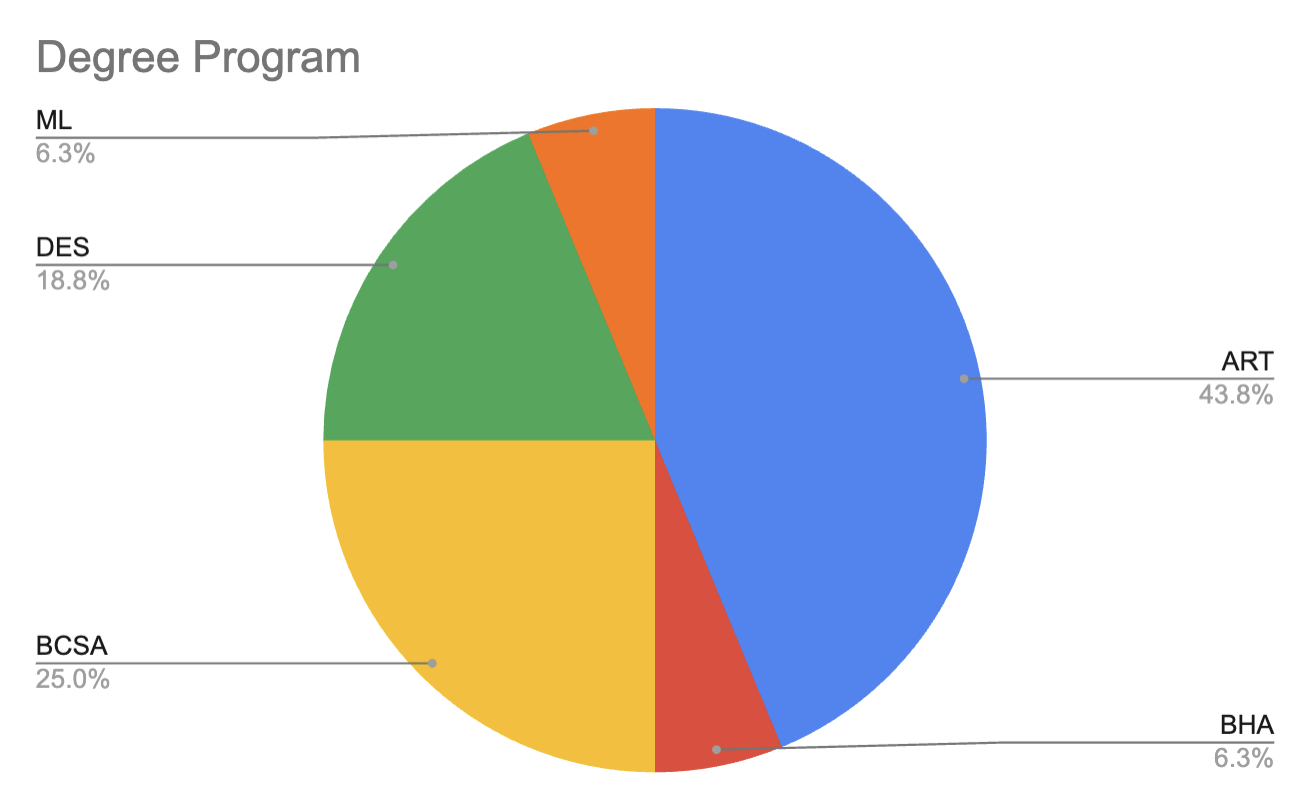
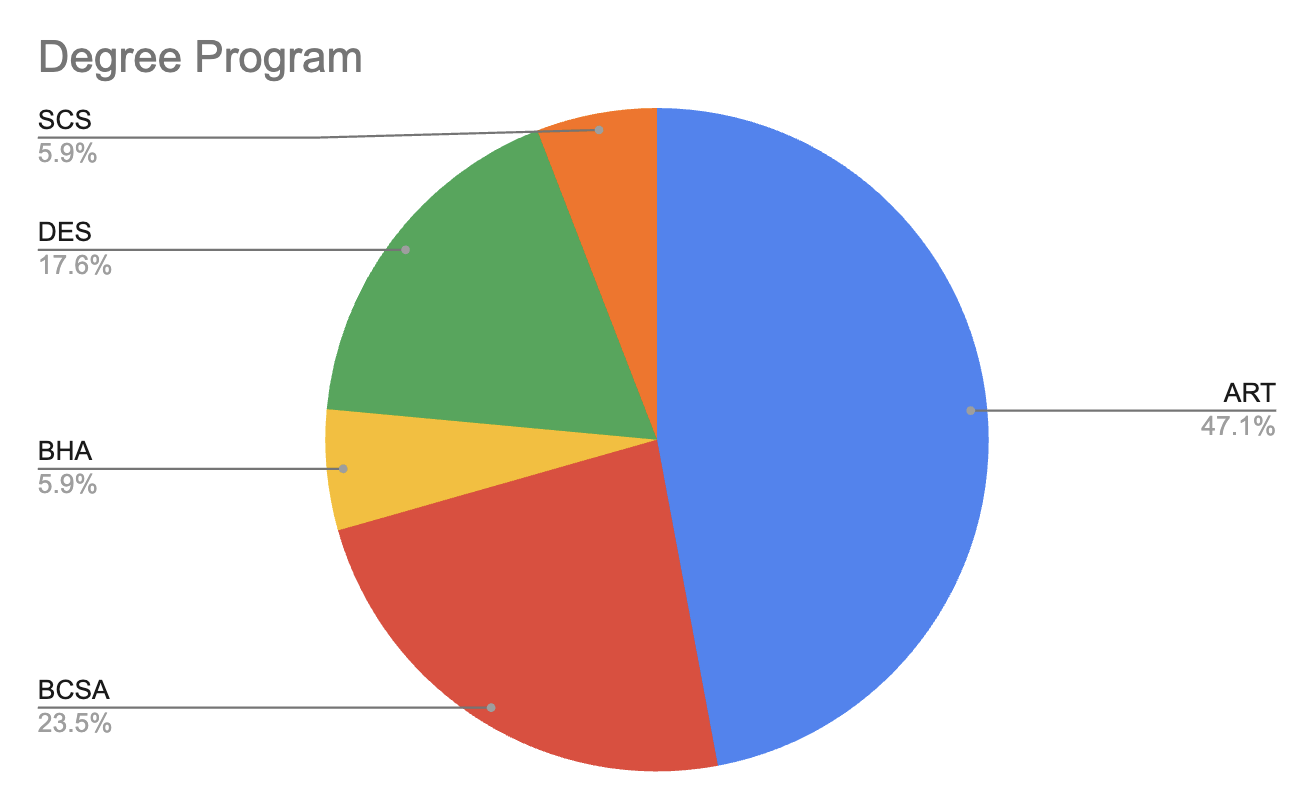
adding alot

diff --git a/2024/daily_notes/20240826.md b/2024/daily_notes/20240826.md
@@ -6,26 +6,56 @@ Welcome to the Fall 2024 edition of *Creative Coding* at CMU!
 
 ## Agenda
 
-* [Who's Here?](#introductions)
-* [Syllabus Review](https://github.com/golanlevin/60-212/blob/main/2024/syllabus/60-212_syllabus_fall2024.md)
-* [Introduction to Poetic Computing]()
-* [Presentation of Assignment #0](../assignments/assignment_0.md)
-* [Welcome Form & Exit Ticket](https://forms.gle/qa1upyvUXWk1dWra6)
+* Moment of Mindfulness: [*Tokyo Strut*](https://www.youtube.com/watch?v=4M-j0Wnjb7Q&t=6s) by Masahiko Sato
+* [Introductions](#introductions) (see below)
+* [About this Class](#about-this-class) (see below)
+* [Introduction to Poetic Computing](https://github.com/golanlevin/lectures/blob/master/lecture_introduction/hello_60212.md)
+* [Let's Get Working](#lets-get-working) (see below)
 
 
 ---
 ## Introductions
 
-Who am I? Here are a few things I've done.
+* About the Professor, Golan Levin: Here are a few things I've done: [Generative art](https://www.artblocks.io/curated/collections/cytographia-by-golan-levin) • [Artificial Intelligence](https://github.com/golanlevin/AmbigrammaticFigures) • [Lasers](https://flong.com/archive/projects/gpp-ii/index.html) • [Robots](https://flong.com/archive/projects/snout/index.html) • [Weird performance](https://flong.com/archive/projects/messa/index.html) • [Creative Coding pedagogy](https://mitpress.mit.edu/9780262542043/code-as-creative-medium/)
+* About our Teaching Assistant, [Em Lugo](https://art.cmu.edu/people/emmanuel-lugo/)
+* Who's here? A brief overview of the students in our class: [by degree program](images/0826/students_by_degree_program.png) • [by year](images/0826/students_by_year.png)
+* Please introduce yourselves! 
 
-* [Generative art!](https://www.artblocks.io/curated/collections/cytographia-by-golan-levin)
-* [Artificial Intelligence!](https://github.com/golanlevin/AmbigrammaticFigures)
-* [Lasers!](https://flong.com/archive/projects/gpp-ii/index.html)
-* [Robots!](https://flong.com/archive/projects/snout/index.html)
-* [Weird performance!](https://flong.com/archive/projects/messa/index.html)
 
-Who's here? Here's a brief overview of the student population in our class.
+---
+## About this Class
 
-![students_by_degree_program.png](images/0826/students_by_degree_program.png)
+* [**Syllabus Review**](https://github.com/golanlevin/60-212/blob/main/2024/syllabus/60-212_syllabus_fall2024.md)
+* [No Tourists](images/0826/no-tourists.jpg). I'm serious about this. [Art will save us.](images/0826/maeda_nyt.jpg)
+* [You're growing up](images/0826/baby-bird-worm.gif). You'll have to figure many things out yourself. This will be the hardest class you take at CMU.
+* [Make (lots of) shoddy work](images/0826/fast-cheap-good.jpg). The Quality/Quantity Experiment. Racehorses. Thankfully, units do not build on each other. If you miss a unit, just move on.
 
-![students_by_year.png](images/0826/students_by_year.png) 
+### Key Due Dates: 
+
+* [Assignment Set 0](../assignments/assignment_0.md): Due Wednesday 8/28
+* Assignment Set 1: Due TBA
+* Assignment Set 2: Due TBA
+* Assignment Set 3: Due TBA
+* Assignment Set 4: Due TBA
+* Assignment Set 5: Due TBA
+* Assignment Set 6: Due TBA
+* Assignment Set 7: Due TBA
+* Assignment Set 8: Due TBA
+* Assignment Set 9: Due TBA
+* Assignment Set 10: Due TBA
+
+---
+## Let's Get Working
+
+* Introduce p5: Reference
+* Look at our OpenProcessing site.
+* [Make a new sketch at OpenProcessing](https://openprocessing.org/sketch/create)
+* [Walkthrough of Assignment #0](../assignments/assignment_0.md), due this Wednesday
+* [Welcome Form & Exit Ticket](https://forms.gle/qa1upyvUXWk1dWra6)
+
+
+--- 
+## Time Permitting
+
+* [Additional themes and viewings](https://courses.ideate.cmu.edu/60-212/s2022/daily-notes/01-19-hello/themes-and-viewings/)
+* [Generative art](https://golancourses.net/60120/daily-notes/unit-2-creative-code/generative-artworks-tasting/)

diff --git a/2024/assignments/assignment_0.md b/2024/assignments/assignment_0.md
@@ -1,19 +1,24 @@
+# UNDER CONSTRUCTION!
+
 # Assignment Set #0
 
 ---
 
-*The following deliverables are due by the beginning of class, Wednesday 8/28:* 
+![assignment_0_banner.png](images/assignment_0_banner.png)
 
-1. **Create** an ID on [OpenProcessing.org](https://openprocessing.org) (if you don't already have one). **Join** our OpenProcessing classroom, using the invitation sent to you by email.
-2. **Create** an ID on [Discord.com](https://discord.com/) (if you don't already have one). **Join** the class Discord, using the invitation sent to you by email.
-3. **Review** the [Syllabus](https://github.com/golanlevin/60-212/blob/main/2024/syllabus/60-212_syllabus_fall2024.md), and **complete** the [Welcome Form & Exit Ticket](https://forms.gle/qa1upyvUXWk1dWra6).
-4. **Write** a [*Looking Outwards*]() post, as follows: 
-	* **Create** a post in the `#LookingOutwards01` channel in the course Discord. 
-	* **Describe** a project you have admired (by someone else) which you feel falls under the broad umbrella of "Creative Coding". **Explain** what you like about it. It's sufficient to write 3-5 sentences. 
-	* **Include** a link (URL) to the project or its documentation.
+*The following deliverables are due by the beginning of class on Wednesday 8/28.*
+
+1. [*5 minutes*] **Create** an ID on [OpenProcessing.org](https://openprocessing.org) (if you don't already have one). **Join** our [OpenProcessing classroom](https://openprocessing.org/class/93074#/), using the invitation sent to you by email.
+2. [*5 minutes*] **Create** an ID on [Discord.com](https://discord.com/) (if you don't already have one). **Join** the class Discord, using the invitation sent to you by email. **Browse** the text channels so you know what goes where.
+3. [*5 minutes*] **Bookmark** our [Course GitHub](https://github.com/golanlevin/60-212/blob/main/2024/readme.md) and [OpenProcessing classroom](https://openprocessing.org/class/93074#/) in your laptop's browser. **Subscribe** to our class [Calendar](http://bit.ly/golancoursecalendar). 
+4. [*20 minutes*] **Review** the [Syllabus](https://github.com/golanlevin/60-212/blob/main/2024/syllabus/60-212_syllabus_fall2024.md) carefully, and **complete** the [**Welcome Form & Exit Ticket**](https://forms.gle/qa1upyvUXWk1dWra6).
+5. [*15 minutes*] **Browse** the [p5.js Reference](https://archive.p5js.org/reference/). Examine at least 10 Reference pages, starting with the Shape commands.
+6. [*15 minutes*] **Browse** the [p5.js Examples](https://archive.p5js.org/examples/). Examine at least 10 Examples, including their code.
+7. [*15 minutes*] **Browse** some of the sketches people have published at [https://openprocessing.org/discover](https://openprocessing.org/discover). (Note: the quality varies widely!) Be sure to **look** at their code (*command-shift-return* may help). In the `#main-chatter` channel of the course Discord, **paste** a link to one or two projects you found interesting. No writing is necessary. 
+8. [*30 minutes*] **Write** a [*Looking Outwards*](https://github.com/golanlevin/lectures/blob/master/syllabi/looking-outwards.md) post, as follows: 
+	* **Create** a post in the `#looking-outwards-1` channel in the course Discord. 
+	* **Describe** a project you have admired (prior to this course) which you feel falls under the broad umbrella of "Creative Coding". **Explain** in writing what you like about it. It's sufficient to write 3-5 sentences. 
+	* **Include** a link (URL) to the project or its documentation (such as a YouTube video).
 	* **Embed** an image of the project in your post. 
 
-And 
-
-* Review p5.js reference
-* Review 
+---
